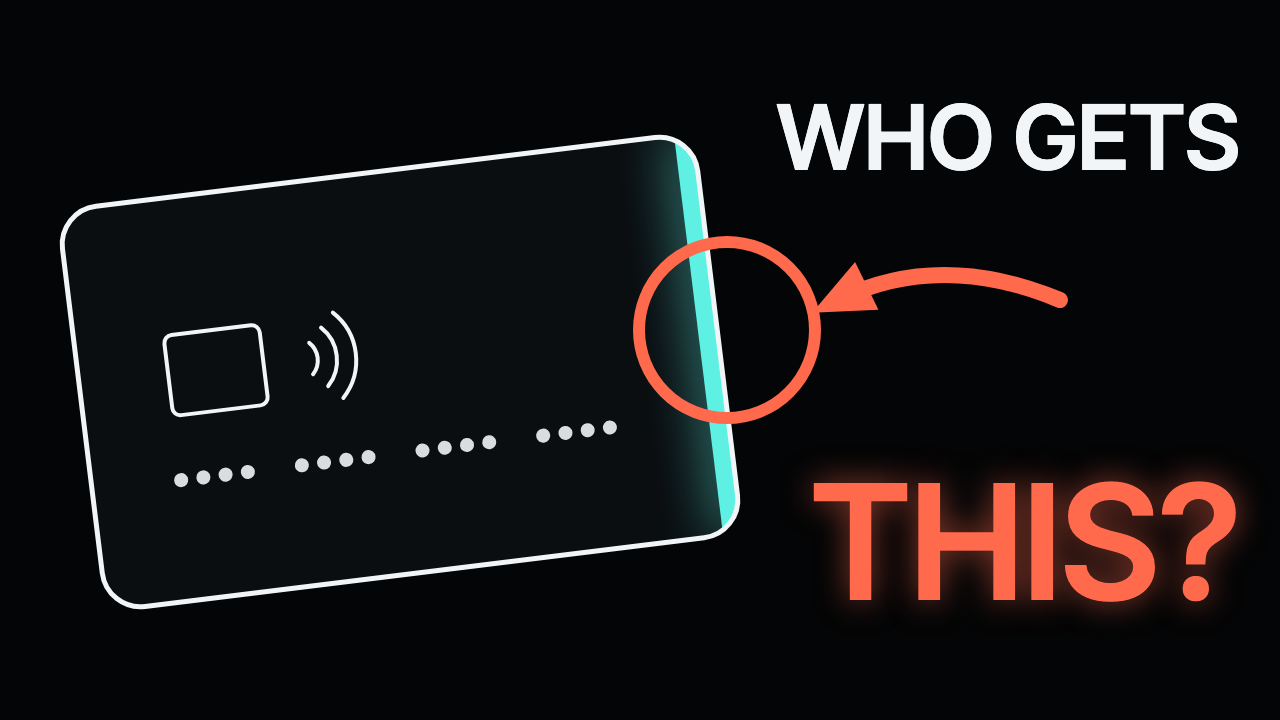
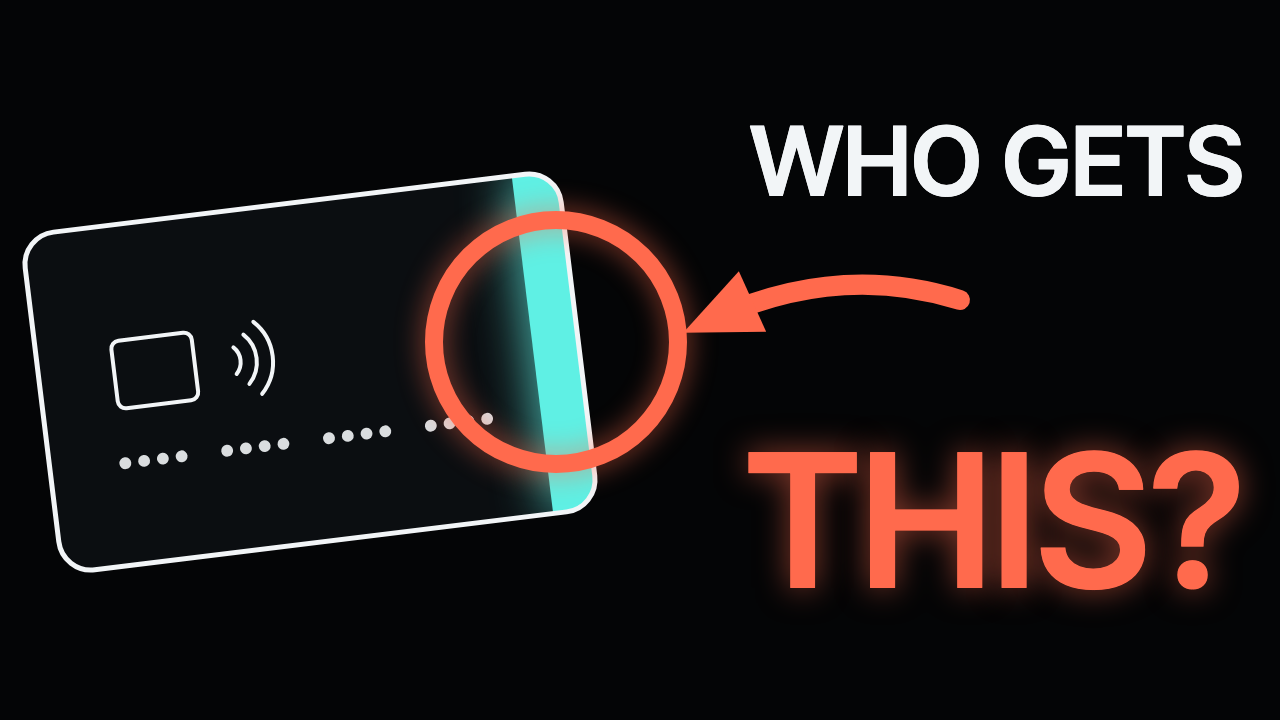
HTP 06: choose the title and thumbnail pairing; rebuild thumbnails D and H after review

Changed region(s): [[0.0, 0.1222, 1.0, 0.8556], [0.0938, 0.825, 0.1875, 0.8556]]

diff --git a/lab/ch2/ep06/thumbs2.py b/lab/ch2/ep06/thumbs2.py
@@ -56,13 +56,18 @@ def arrow(c, pts, colr=RED, w=16):
 
 
 def thumb_d():
-    """A question with the answer visibly tiny: the sliver at the card's edge."""
+    """A question with the answer visibly small: the lit strip at the card's edge. (Critic, 6 Oct: at phone size the
+    strip and the ring vanished and "WHO GETS" went faint, so all three are now much larger and the arrow starts at the type.)"""
     s, c = T.base()
-    T.card(c, 400, 372, 640, -7, sliver=0.03)
-    c.drawCircle(727, 330, 88, skia.Paint(Color=col(RED), AntiAlias=True, Style=skia.Paint.kStroke_Style, StrokeWidth=12))
-    arrow(c, [(1060, 300), (940, 250), (838, 300)])
-    fit(c, "WHO GETS", 1240, 170, 470, 120, INK, align="right")
-    fit(c, "THIS?", 1240, 600, 430, 200, RED, halo=16, align="right")
+    T.card(c, 310, 372, 540, -7, sliver=0.085)
+    g = glow(RED, 0.5, 14)
+    g.setStyle(skia.Paint.kStroke_Style)
+    g.setStrokeWidth(22)
+    c.drawCircle(556, 342, 122, g)
+    c.drawCircle(556, 342, 122, skia.Paint(Color=col(RED), AntiAlias=True, Style=skia.Paint.kStroke_Style, StrokeWidth=18))
+    arrow(c, [(960, 300), (840, 262), (716, 318)], w=20)
+    fit(c, "WHO GETS", 1244, 196, 500, 150, INK, align="right")
+    fit(c, "THIS?", 1244, 588, 500, 236, RED, halo=16, align="right")
     return s.makeImageSnapshot()
 
 
@@ -116,10 +121,10 @@ def thumb_g():
 def thumb_h():
     """The contradiction, stacked: nothing lent, twenty billion made."""
     s, c = T.base()
-    for k in range(7):                                               # a tap, radiating
-        rr = 120 + k * 110
-        c.drawArc(skia.Rect.MakeLTRB(1280 - rr, 360 - rr, 1280 + rr, 360 + rr), 120, 120, False,
-                  skia.Paint(Color=col(CYAN, 0.75 - k * 0.09), AntiAlias=True, Style=skia.Paint.kStroke_Style, StrokeWidth=14 - k, StrokeCap=skia.Paint.kRound_Cap))
+    for k in range(4):                                               # a tap, radiating (kept clear of the type)
+        rr = 110 + k * 78
+        c.drawArc(skia.Rect.MakeLTRB(1290 - rr, 360 - rr, 1290 + rr, 360 + rr), 120, 120, False,
+                  skia.Paint(Color=col(CYAN, 0.9 - k * 0.15), AntiAlias=True, Style=skia.Paint.kStroke_Style, StrokeWidth=18 - 2 * k, StrokeCap=skia.Paint.kRound_Cap))
     fit(c, "LENDS $0", 44, 300, 820, 230, INK)
     fit(c, "MAKES $20B", 44, 560, 900, 230, CYAN, halo=22)
     return s.makeImageSnapshot()

diff --git a/lab/ch2/ep06/combo.py b/lab/ch2/ep06/combo.py
@@ -1,0 +1,52 @@
+#!/usr/bin/env python3
+"""The chosen title and thumbnail pairing for HTP 06, shown the way a feed shows it (dark mode), with the two
+thumbnails that go into Test & Compare beside it.
+
+    ~/youtube/.venv/bin/python combo.py      # -> combo_pick.png
+"""
+import os
+
+import skia
+
+import look_test as LT
+from look_test import col, font
+
+TITLE = "Visa Isn't a Credit Card Company"
+PICK, TESTS = "D", ("H", "A")
+
+
+def img(n):
+    return skia.Image.open(os.path.join(LT.HERE, f"thumb_{n}.png"))
+
+
+def tile(c, n, x, y, w, big):
+    samp = skia.SamplingOptions(skia.CubicResampler.Mitchell())
+    h = w * 9 / 16
+    c.save()
+    c.clipRRect(skia.RRect.MakeRectXY(skia.Rect.MakeXYWH(x, y, w, h), w * 0.025, w * 0.025), True)
+    c.drawImageRect(img(n), skia.Rect.MakeXYWH(x, y, w, h), samp)
+    c.restore()
+    s = w / 640
+    c.drawRRect(skia.RRect.MakeRectXY(skia.Rect.MakeXYWH(x + w - 62 * s, y + h - 34 * s, 52 * s, 24 * s), 5 * s, 5 * s), skia.Paint(Color=col("#000000", 0.85), AntiAlias=True))
+    c.drawString("4:19", x + w - 56 * s, y + h - 16 * s, font("InterTight-600", 17 * s), skia.Paint(Color=col("#FFFFFF"), AntiAlias=True))
+    c.drawCircle(x + 22 * s, y + h + 40 * s, 20 * s, skia.Paint(Color=col("#5FF0E4"), AntiAlias=True))
+    c.drawString(TITLE, x + 56 * s, y + h + 36 * s, font("InterTight-600", 25 * s), skia.Paint(Color=col("#F1F1F1"), AntiAlias=True))
+    c.drawString("How They Profit  ·  2 hours ago", x + 56 * s, y + h + 64 * s, font("InterTight-600", 17 * s), skia.Paint(Color=col("#AAAAAA"), AntiAlias=True))
+    if big:
+        c.drawString(big, x, y - 16, font("IBMPlexMono-400", 22), skia.Paint(Color=col("#C9CED3"), AntiAlias=True))
+
+
+def main():
+    s = skia.Surface(1500, 720)
+    c = s.getCanvas()
+    c.clear(col("#0F0F0F"))
+    tile(c, PICK, 40, 60, 860, f"THE PICK: thumbnail {PICK} + this title")
+    for k, n in enumerate(TESTS):
+        tile(c, n, 960, 60 + k * 330, 400, f"test against it: {n}")
+    p = os.path.join(LT.HERE, "combo_pick.png")
+    s.makeImageSnapshot().save(p, skia.kPNG)
+    print(p)
+
+
+if __name__ == "__main__":
+    main()

diff --git a/lab/ch2/ep06/POST.md b/lab/ch2/ep06/POST.md
@@ -9,8 +9,21 @@ NOT uploaded. Before upload: the user's go-ahead, (critic gate: CRITIC_v6.md sai
 3. What Really Happens When You Tap Your Card  (vidIQ 87, widest audience)
 NEVER: "The Company That Never Touches Your Money" (false: Visa settles payments, FACTS.md "Settlement").
 
-## Thumbnail (thumbs.py; use all three in Test & Compare)
-- A `thumb_A.png` "24¢ OF EVERY $100" (recommended main)  ·  B `thumb_B.png` "LENDS $0 / KEEPS HALF"  ·  C `thumb_C.png` "$17 TRILLION / NOT ITS MONEY"
+## Thumbnail (thumbs.py A to C, thumbs2.py D to I; nine candidates, sheets `thumbs_sheet.png` and `thumbs2_sheet.png`)
+- A `thumb_A.png` "24¢ OF EVERY $100"  ·  B `thumb_B.png` "LENDS $0 / KEEPS HALF"  ·  C `thumb_C.png` "$17 TRILLION / NOT ITS MONEY"
+- D `thumb_D.png` "WHO GETS THIS?" (red circle on the card's sliver)  ·  E `thumb_E.png` "NOT A BANK" stamp  ·  F `thumb_F.png` "VISA'S CUT" (one lit cell)
+- G `thumb_G.png` "50% IS PROFIT"  ·  H `thumb_H.png` "LENDS $0 / MAKES $20B"  ·  I `thumb_I.png` "WHAT DOES VISA SELL? / NOT MONEY"
+
+## The pairing (6 Oct: the user said "u choose the strongest curiosity trigger combo"; mock in `combo_pick.png`, made by combo.py)
+- **Title 1 "Visa Isn't a Credit Card Company" + thumbnail D.** The title breaks a belief (then what is it?); the
+  thumbnail asks a second question the title does not answer (who gets the sliver, and why so little). The film pays
+  both off: Visa is a network, and the sliver is its 24¢ of every $100.
+- Test & Compare: D against H and A. E is held back because "NOT A BANK" repeats title 1; use E only with title 2.
+  G is held back: "50% IS PROFIT" can be misread as Visa taking half of what you spend.
+- Independent reviewer (6 Oct) preferred H + title 1 as the main and said the first D failed at phone size (strip and
+  ring too small, "WHO GETS" faint, arrow floating). D was rebuilt with those fixes (strip 8.5% of the card, ring
+  1.4x, larger type, arrow starts at the type); H's arcs no longer run behind "$0". The rebuilt D has NOT been
+  re-reviewed. Test & Compare decides between D and H on real viewers.
 
 ## Description
 Every time a card is tapped, a message crosses Visa's network, and the money moves between two banks. Visa lends none

diff --git a/HANDOFF.md b/HANDOFF.md
@@ -114,6 +114,13 @@ just below (`STUDIO.md` maps everything), then "4 Oct", "3 Oct evening", "3 Oct:
   **v7 has not been through a critic** (v6 had; v7 = v6 plus those changes). NOT DONE: thumbnail, end card, Shorts.
   WAITING ON THE USER: a title; upload now or hold for fiscal 2026 (late Oct; "last year" is said six times); the
   upload itself is by hand in YouTube Studio while Zapier is at its task limit.
+- **6 Oct, late: HTP 06 PACKAGING CHOSEN** (user: "u choose the strongest curiosity trigger combo"). Title
+  "Visa Isn't a Credit Card Company" + thumbnail D "WHO GETS THIS?" (`lab/ch2/ep06/thumb_D.png`, mock
+  `combo_pick.png` from `combo.py`). Test & Compare: D vs H vs A. Nine thumbnails A to I exist (`thumbs.py`,
+  `thumbs2.py`). An independent reviewer preferred H as the main and said the first D failed at phone size; D and H
+  were rebuilt with the fixes and the rebuilt D has not been re-reviewed. Hold back E (repeats the title) and G
+  (misreads as half your spend). Detail in `lab/ch2/ep06/POST.md`. Still owed before upload: critic pass on v7, end
+  card, Shorts; upload is by hand in YouTube Studio (Zapier at its task limit).
 - **GitHub push has been failing since about 01:55** ("Failed to connect to github.com port 443"); commits are local
   on the Mac (`git status -sb` shows "ahead N"). Retry `git push origin claude/funny-newton-gd9w8v`.
 - **Waiting on the user:** order NFC blanks + A6 holders; home town; a Stripe or SumUp account; which account sends
